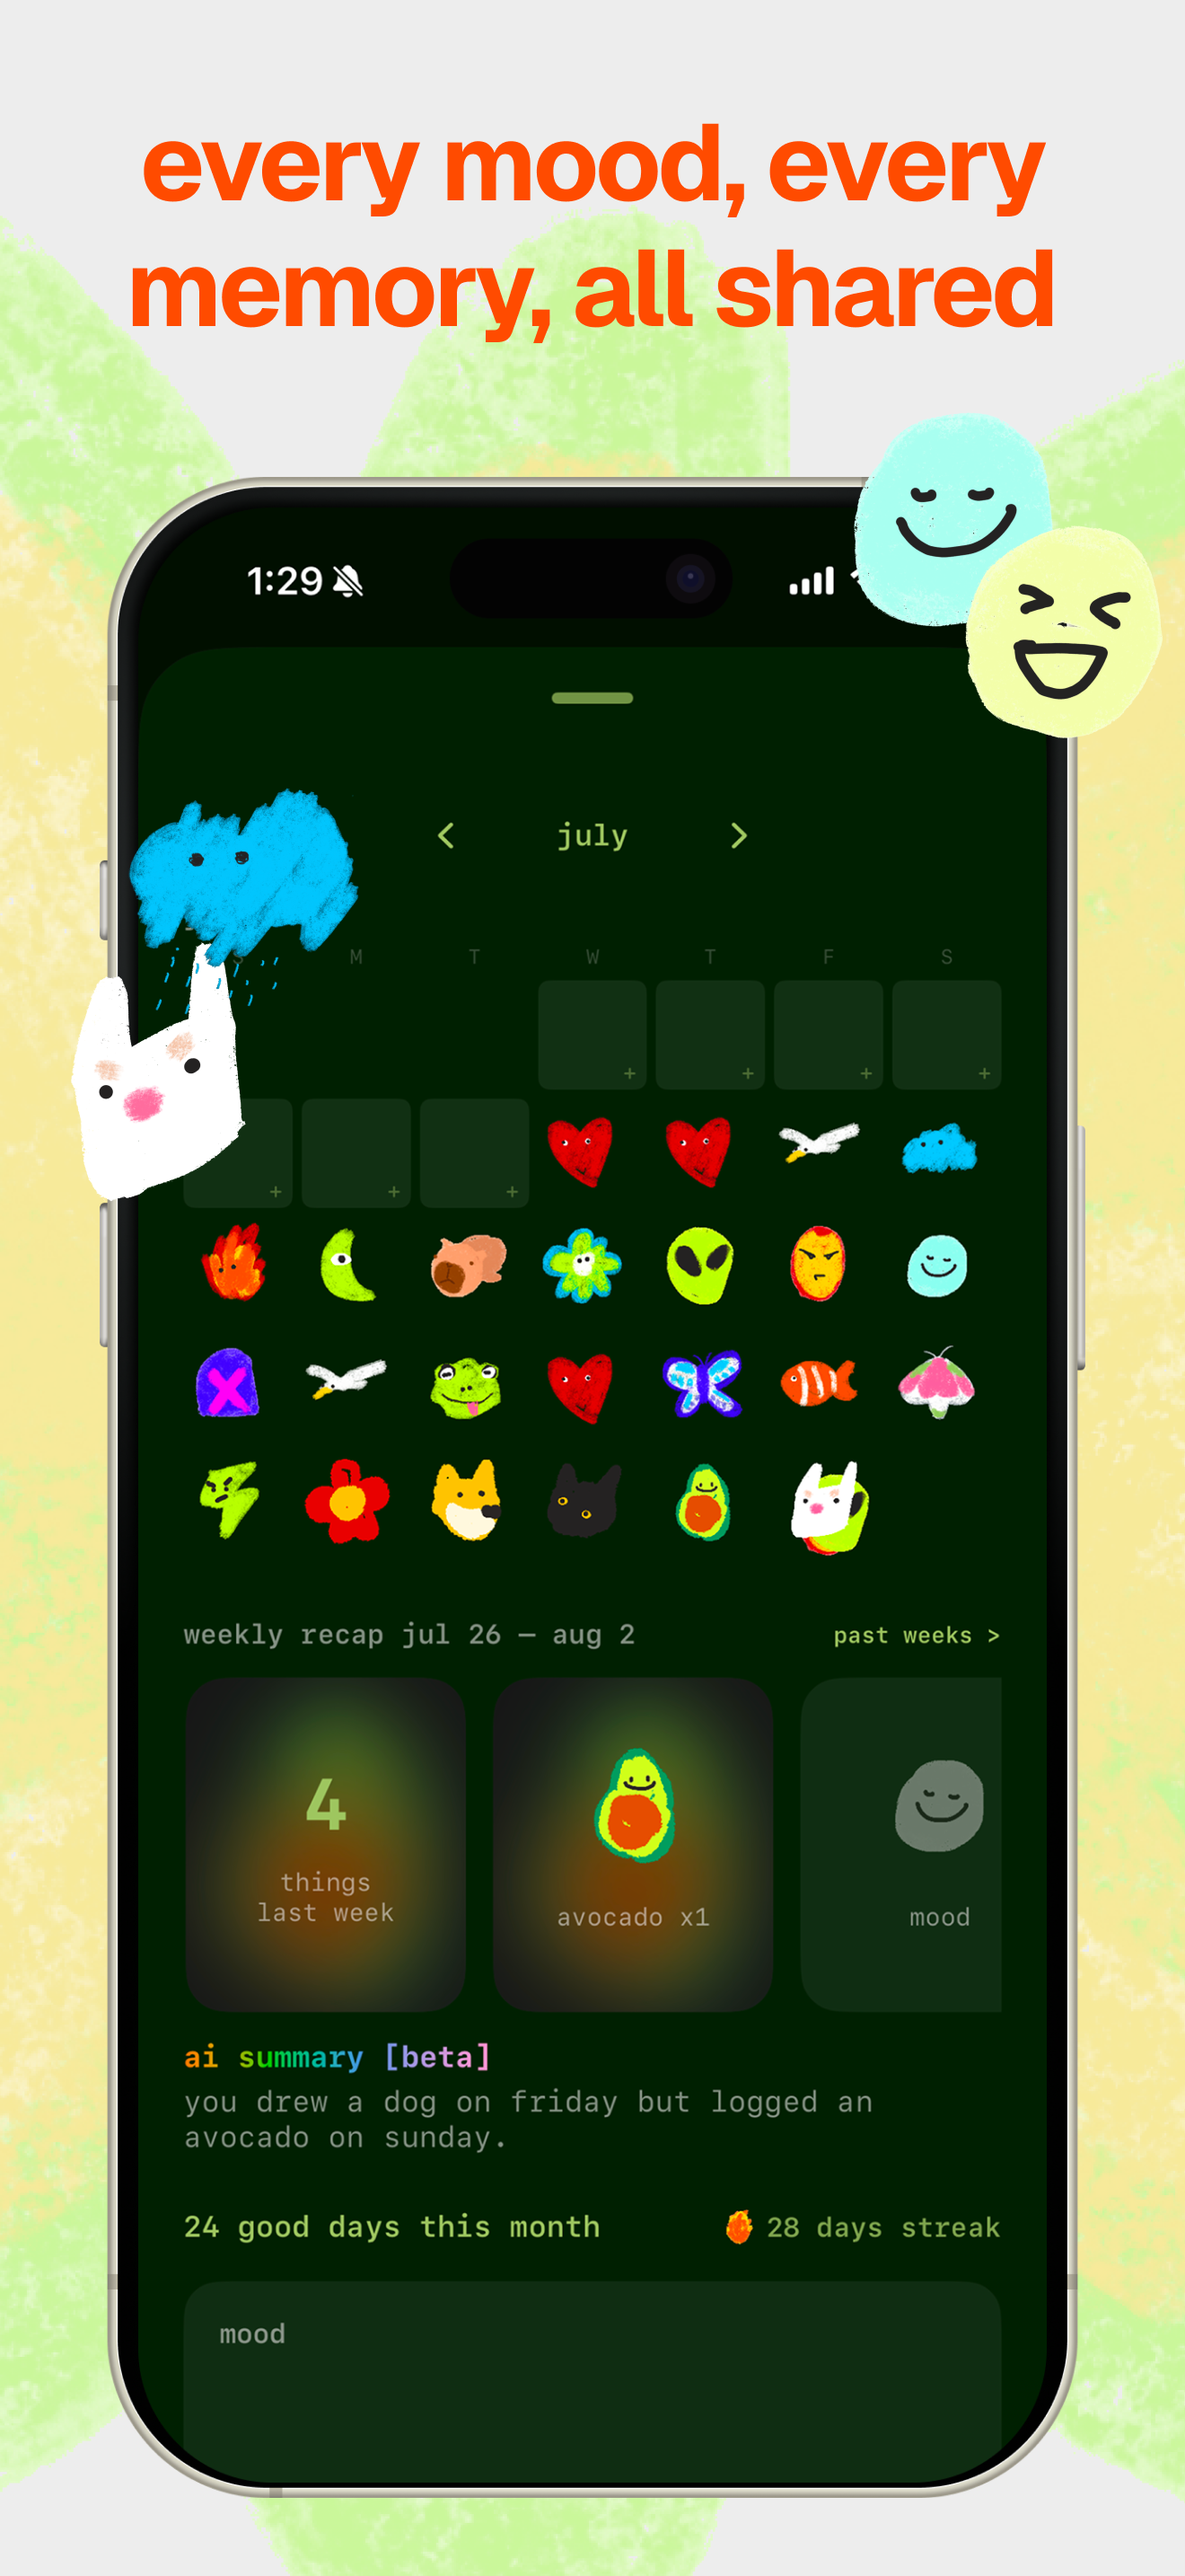
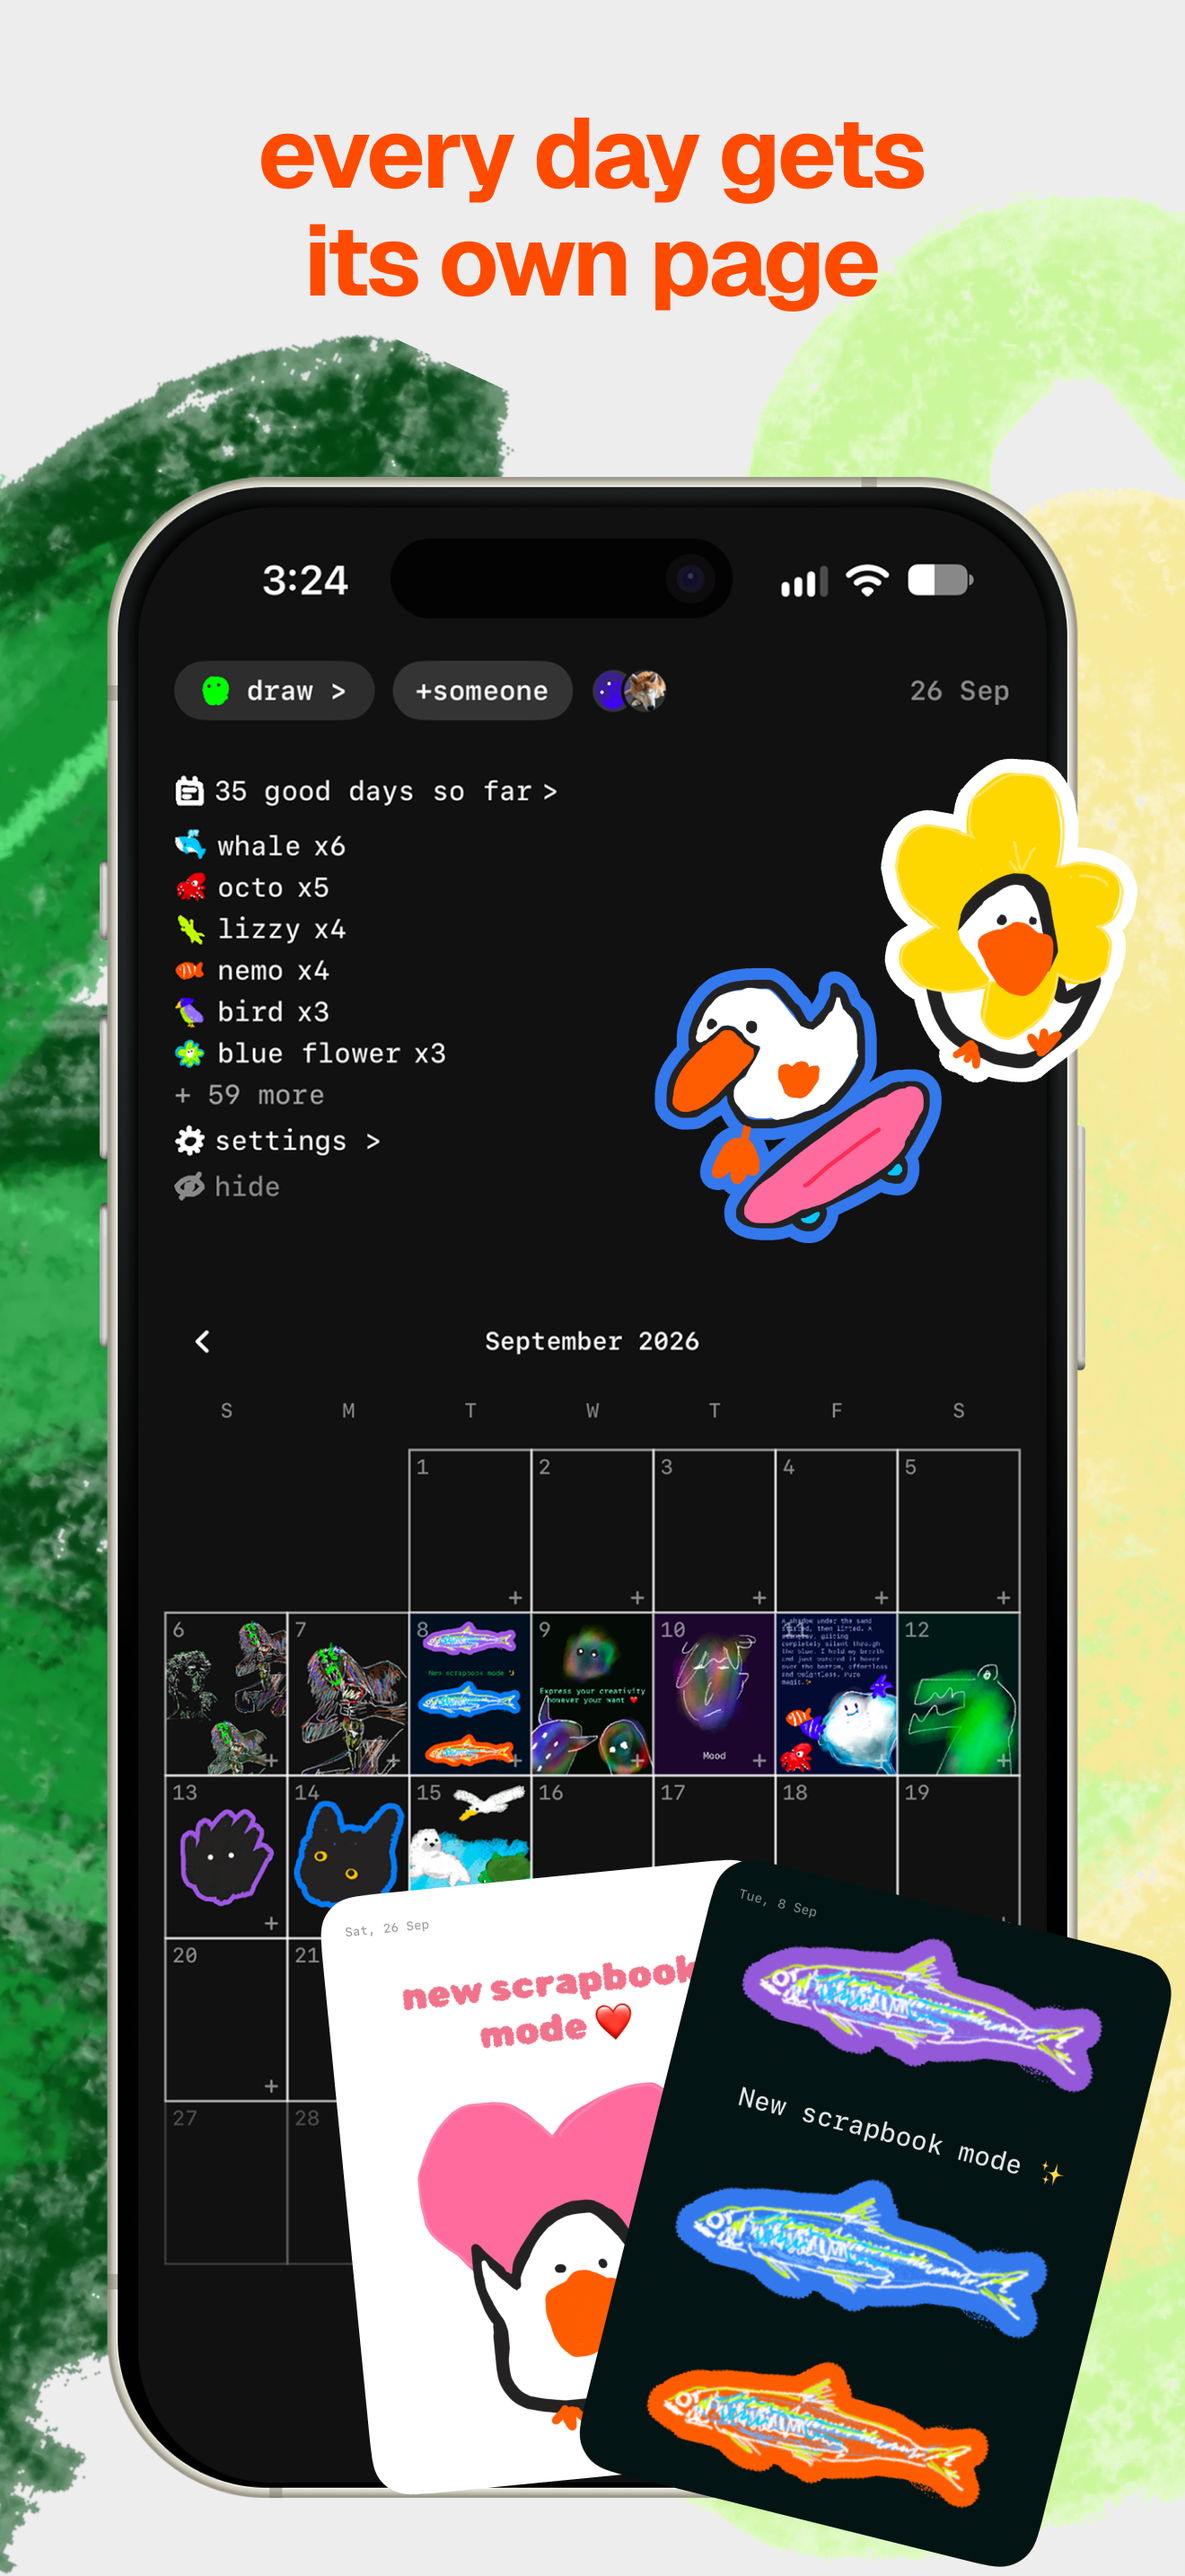
feat: update 1 Good Thing screenshots to v1.6
6 new screenshots: tracing guide, sticker maker, note entry, calendar
+ scrapbook, home screen widget, lock screen wallpaper. Updated captions
to match each feature.

diff --git a/src/app/components/windows/OneGoodThingWindow.tsx b/src/app/components/windows/OneGoodThingWindow.tsx
@@ -64,59 +64,63 @@ export function OneGoodThingWindow() {
 
         <div style={{ display: isMobile ? "flex" : "grid", gridTemplateColumns: "1fr 1fr", flexDirection: "column", gap: "8px" }}>
           <div className="flex flex-col gap-2">
-            <ImageWell theme={theme} style={{ height: "280px" }} onClick={ql("/1goodthing/preview-shared-jar.png", "Shared jar")}>
-              <img src="/1goodthing/preview-shared-jar.png" alt="Shared jar: friends adding their drawings together with live notifications" loading="lazy" style={{ maxWidth: "100%", maxHeight: "100%", width: "auto", height: "auto", objectFit: "contain", display: "block", margin: "0 auto" }} />
+            <ImageWell theme={theme} style={{ height: "280px" }} onClick={ql("/1goodthing/preview-trace.png", "Tracing guide")}>
+              <img src="/1goodthing/preview-trace.png" alt="Drawing canvas with a photo loaded as a faint tracing guide underneath" loading="lazy" style={{ maxWidth: "100%", maxHeight: "100%", width: "auto", height: "auto", objectFit: "contain", display: "block", margin: "0 auto" }} />
             </ImageWell>
             <InfoPanel theme={theme}>
-              <span style={{ fontFamily: "'IBM Plex Mono', monospace", fontSize: 10, color: theme.textMuted }}>SHARED JAR</span>
-              <br />Share a jar with up to 6 friends or family. Everyone adds their own good things. No accounts or sign-ups needed.
-            </InfoPanel>
-          </div>
-          <div className="flex flex-col gap-2">
-            <ImageWell theme={theme} style={{ height: "280px" }} onClick={ql("/1goodthing/preview-widget.png", "Shared widget")}>
-              <img src="/1goodthing/preview-widget.png" alt="Shared widget: everyone's drawings arranged into one collage on the home screen" loading="lazy" style={{ maxWidth: "100%", maxHeight: "100%", width: "auto", height: "auto", objectFit: "contain", display: "block", margin: "0 auto" }} />
-            </ImageWell>
-            <InfoPanel theme={theme}>
-              <span style={{ fontFamily: "'IBM Plex Mono', monospace", fontSize: 10, color: theme.textMuted }}>SHARED WIDGET</span>
-              <br />Build a widget together. Everyone's drawings in one collage, updated the moment anyone adds something.
-            </InfoPanel>
-          </div>
-        </div>
-
-        <div style={{ display: isMobile ? "flex" : "grid", gridTemplateColumns: "1fr 1fr", flexDirection: "column", gap: "8px" }}>
-          <div className="flex flex-col gap-2">
-            <ImageWell theme={theme} style={{ height: "280px" }} onClick={ql("/1goodthing/preview-draw.png", "Drawing interface")}>
-              <img src="/1goodthing/preview-draw.png" alt="Drawing interface with canvas, brush tools and color picker" loading="lazy" style={{ maxWidth: "100%", maxHeight: "100%", width: "auto", height: "auto", objectFit: "contain", display: "block", margin: "0 auto" }} />
-            </ImageWell>
-            <InfoPanel theme={theme}>
-              <span style={{ fontFamily: "'IBM Plex Mono', monospace", fontSize: 10, color: theme.textMuted }}>DRAW</span>
-              <br />A canvas, a few brushes, a color picker. Draw one thing. Name it. Drop it in.
+              <span style={{ fontFamily: "'IBM Plex Mono', monospace", fontSize: 10, color: theme.textMuted }}>TRACING GUIDE</span>
+              <br />Never learned to draw? Load any photo as a faint guide, trace the shape, then make it your own.
             </InfoPanel>
           </div>
           <div className="flex flex-col gap-2">
             <ImageWell theme={theme} style={{ height: "280px" }} onClick={ql("/1goodthing/preview-sticker.png", "Sticker maker")}>
-              <img src="/1goodthing/preview-sticker.png" alt="Sticker maker: turn any photo into a sticker for your drawings" loading="lazy" style={{ maxWidth: "100%", maxHeight: "100%", width: "auto", height: "auto", objectFit: "contain", display: "block", margin: "0 auto" }} />
+              <img src="/1goodthing/preview-sticker.png" alt="Style your sticker screen with colour border options, copy as sticker to send in chat" loading="lazy" style={{ maxWidth: "100%", maxHeight: "100%", width: "auto", height: "auto", objectFit: "contain", display: "block", margin: "0 auto" }} />
             </ImageWell>
             <InfoPanel theme={theme}>
               <span style={{ fontFamily: "'IBM Plex Mono', monospace", fontSize: 10, color: theme.textMuted }}>STICKER MAKER</span>
-              <br />Turn any photo into a sticker. Mix real photos and drawings in the same memory.
+              <br />Draw it, add a colour border, copy as a sticker. Drop it into any chat. Your doodles, ready to steal the conversation.
             </InfoPanel>
           </div>
         </div>
 
         <div style={{ display: isMobile ? "flex" : "grid", gridTemplateColumns: "1fr 1fr", flexDirection: "column", gap: "8px" }}>
           <div className="flex flex-col gap-2">
-            <ImageWell theme={theme} style={{ height: "280px" }} onClick={ql("/1goodthing/preview-calendar.png", "Calendar and memory view")}>
-              <img src="/1goodthing/preview-calendar.png" alt="Calendar view with monthly drawings, weekly recap, mood tracking, and AI summary" loading="lazy" style={{ maxWidth: "100%", maxHeight: "100%", width: "auto", height: "auto", objectFit: "contain", display: "block", margin: "0 auto" }} />
+            <ImageWell theme={theme} style={{ height: "280px" }} onClick={ql("/1goodthing/preview-note.png", "Note and drawing entry")}>
+              <img src="/1goodthing/preview-note.png" alt="Entry detail showing a cat drawing with a title and short written note below" loading="lazy" style={{ maxWidth: "100%", maxHeight: "100%", width: "auto", height: "auto", objectFit: "contain", display: "block", margin: "0 auto" }} />
             </ImageWell>
             <InfoPanel theme={theme}>
-              <span style={{ fontFamily: "'IBM Plex Mono', monospace", fontSize: 10, color: theme.textMuted }}>MEMORY JAR</span>
-              <br />Every drawing lands in a calendar. Mood, weather, location. Weekly recap. AI summary of what you actually captured.
+              <span style={{ fontFamily: "'IBM Plex Mono', monospace", fontSize: 10, color: theme.textMuted }}>NOTE</span>
+              <br />Add a title and a few words. 200 characters, plenty. The drawing carries the feeling. The note carries the detail.
             </InfoPanel>
           </div>
-          <div className="flex flex-col gap-2" style={{ justifyContent: "flex-start" }}>
-            <InfoPanel title="What's in pro" theme={theme}>
-              Unlimited good things, the bad thing jar for letting go, custom widgets, and shared jars with up to 6 people. Free tier gives you 3 good things, forever.
+          <div className="flex flex-col gap-2">
+            <ImageWell theme={theme} style={{ height: "280px" }} onClick={ql("/1goodthing/preview-calendar.png", "Calendar and scrapbook")}>
+              <img src="/1goodthing/preview-calendar.png" alt="Calendar view showing a month of drawings per day, with scrapbook mode cards" loading="lazy" style={{ maxWidth: "100%", maxHeight: "100%", width: "auto", height: "auto", objectFit: "contain", display: "block", margin: "0 auto" }} />
+            </ImageWell>
+            <InfoPanel theme={theme}>
+              <span style={{ fontFamily: "'IBM Plex Mono', monospace", fontSize: 10, color: theme.textMuted }}>CALENDAR + SCRAPBOOK</span>
+              <br />Every drawing lands in a calendar. Scrapbook mode lets you arrange a day as a collage card to keep or share.
+            </InfoPanel>
+          </div>
+        </div>
+
+        <div style={{ display: isMobile ? "flex" : "grid", gridTemplateColumns: "1fr 1fr", flexDirection: "column", gap: "8px" }}>
+          <div className="flex flex-col gap-2">
+            <ImageWell theme={theme} style={{ height: "280px" }} onClick={ql("/1goodthing/preview-widget.png", "Home screen widget")}>
+              <img src="/1goodthing/preview-widget.png" alt="iPhone home screen with 1 good thing widget showing recent drawings of cats and flowers" loading="lazy" style={{ maxWidth: "100%", maxHeight: "100%", width: "auto", height: "auto", objectFit: "contain", display: "block", margin: "0 auto" }} />
+            </ImageWell>
+            <InfoPanel theme={theme}>
+              <span style={{ fontFamily: "'IBM Plex Mono', monospace", fontSize: 10, color: theme.textMuted }}>WIDGET</span>
+              <br />Your drawings on your home screen. A little joy every time you check your phone.
+            </InfoPanel>
+          </div>
+          <div className="flex flex-col gap-2">
+            <ImageWell theme={theme} style={{ height: "280px" }} onClick={ql("/1goodthing/preview-wallpaper.png", "Lock screen wallpaper")}>
+              <img src="/1goodthing/preview-wallpaper.png" alt="Wallpaper generator showing a grid of drawings arranged as a phone lock screen" loading="lazy" style={{ maxWidth: "100%", maxHeight: "100%", width: "auto", height: "auto", objectFit: "contain", display: "block", margin: "0 auto" }} />
+            </ImageWell>
+            <InfoPanel theme={theme}>
+              <span style={{ fontFamily: "'IBM Plex Mono', monospace", fontSize: 10, color: theme.textMuted }}>WALLPAPER</span>
+              <br />Generate a wallpaper from your jar. Good things, bad things, or any collection. Your good days on your lock screen.
             </InfoPanel>
           </div>
         </div>
